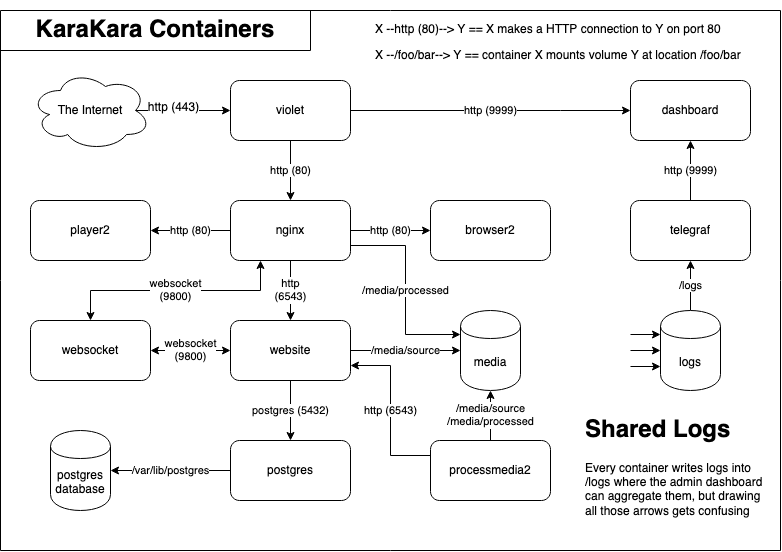
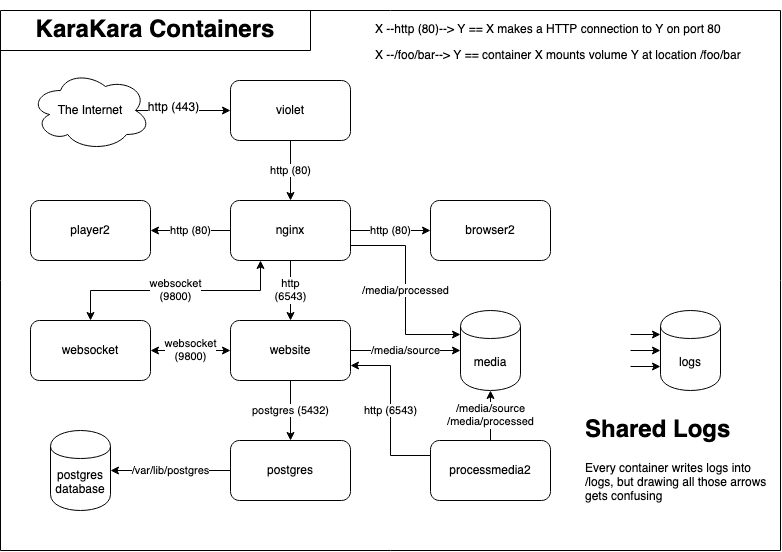
remove the dashboard which never got started

diff --git a/README.md b/README.md
@@ -123,9 +123,6 @@ Core components
   * Can be controlled via hotkeys or remotely with websockets
   * Automatically updates track list when the queue is changed.
   * Queue order is obscured past a configurable time
-* dashboard ![Dashboard](https://github.com/calaldees/KaraKara/workflows/Dashboard/badge.svg)
-  * Imports the logs from all the different apps
-  * Displays graphical dashboards
 * nginx ![Nginx](https://github.com/calaldees/KaraKara/workflows/Nginx/badge.svg)
   * Accepts HTTP requests and forwards them to the API / various GUIs as appropriate
 * postgres ![Postgres](https://github.com/calaldees/KaraKara/workflows/Postgres/badge.svg)
